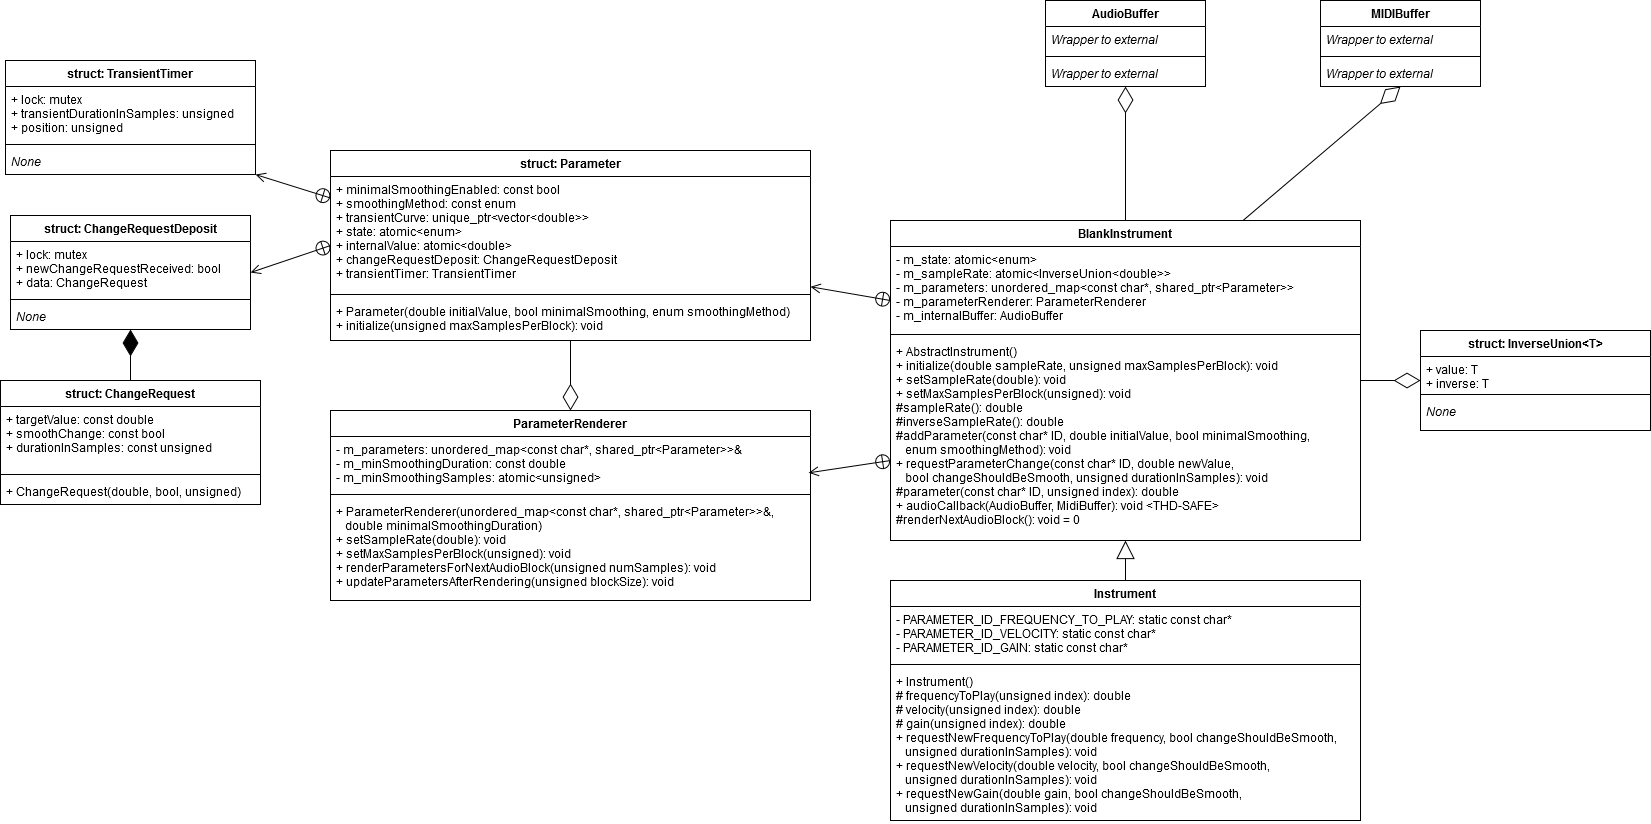
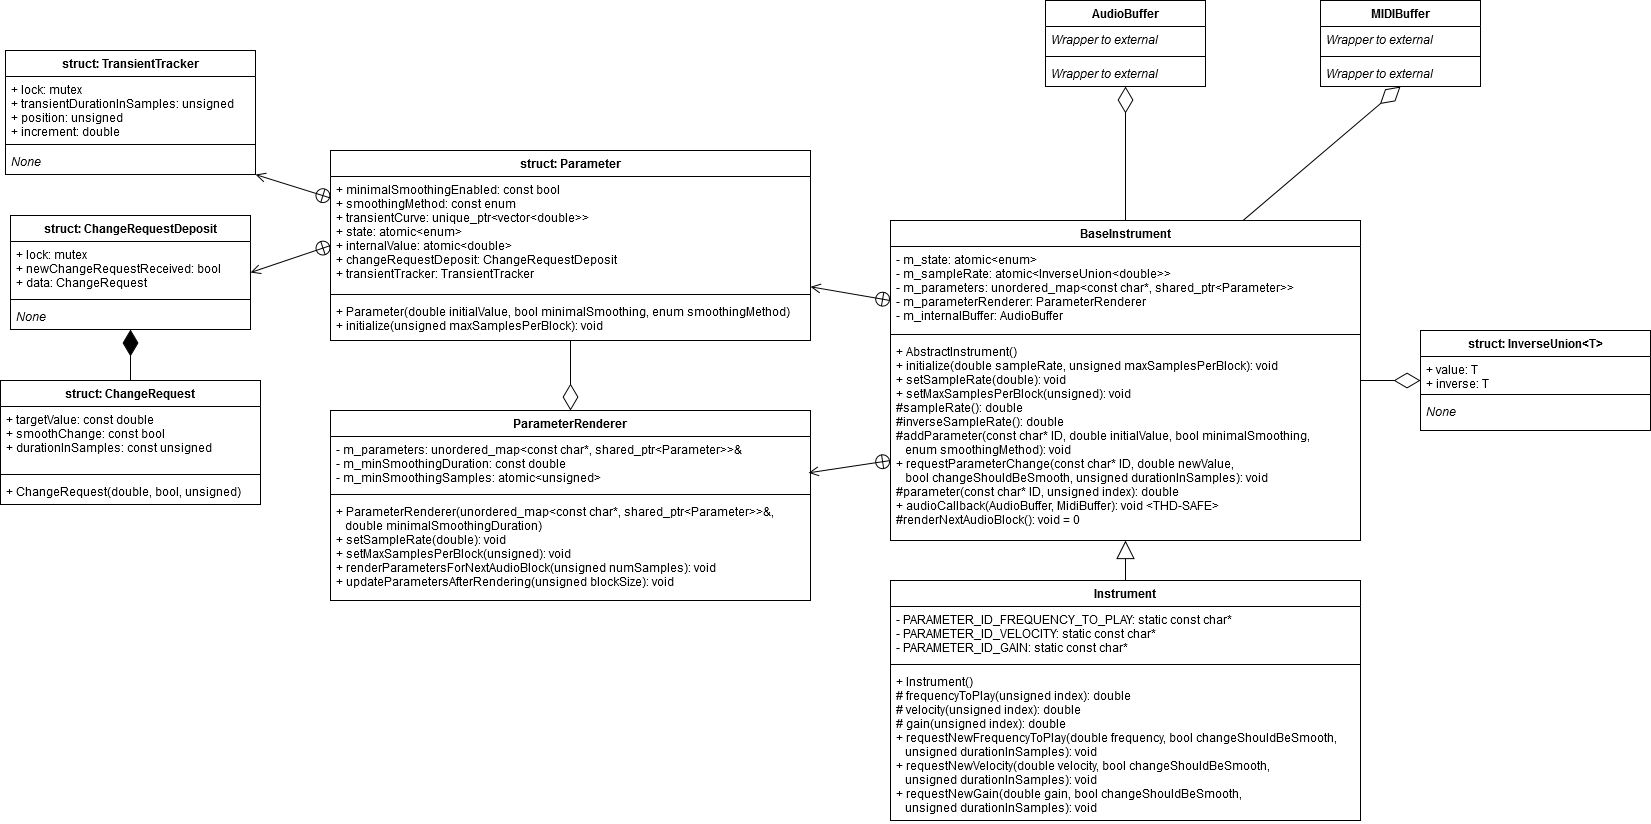
Renamed TransientTimer into TransientTracker, and added an internal increment
The TransientTracker tracks the parameter's position within its transient state, and keeps track of the increment to use for its update.

The increment parameter is used to generate the parameter's progression (be it an arithmetic or a geometric progression, depending on the chosen SmoothingMethod).

Changed region(s): [[0.0, 0.0607, 0.1545, 0.182], [0.6487, 0.2731, 0.7105, 0.3034], [0.2471, 0.3034, 0.3089, 0.3337]]

diff --git a/source/core/instrument/Instrument.h b/source/core/instrument/Instrument.h
@@ -57,17 +57,19 @@ namespace ANGLECORE
         struct Parameter
         {
             /**
-            * \struct TransientTimer Instrument.h
-            * When a parameter is in a transient state and changes towards a new
-            * value, this structure can store how close the parameter is to its
-            * target value (in terms of remaining samples).
+            * \struct TransientTracker Instrument.h
+            * A TransientTracker tracks a Parameter's position while in a transient
+            * state. This structure can store how close the Parameter is to its
+            * target value (in terms of remaining samples), as well as the increment
+            * to use for its update.
             * Additionally, this structure contains a mutex for trade-safe operations.
             */
-            struct TransientTimer
+            struct TransientTracker
             {
                 std::mutex lock;
                 uint32_t transientDurationInSamples;
                 uint32_t position;
+                double increment;
             };
 
             /**
@@ -155,7 +157,7 @@ namespace ANGLECORE
             std::atomic<double> internalValue;
             std::unique_ptr<std::vector<double>> transientCurve;
             ChangeRequestDeposit changeRequestDeposit;
-            TransientTimer transientTimer;
+            TransientTracker transientTracker;
 
             /**
             * Creates a parameter with a fixed smoothing technique.
@@ -244,7 +246,7 @@ namespace ANGLECORE
             * block of size \p blockSize.
             * This method is called at the end of an BaseInstrument
             * audioCallback function, to update the parameters in a transient state.
-            * More precisely, this method increments the TransientTimer of all
+            * More precisely, this method increments the TransientTracker of all
             * parameters in transient state, and updates the internalValue of those
             * to their latest value.
             * @param[in] blockSize  Size of the audio block that has just been
